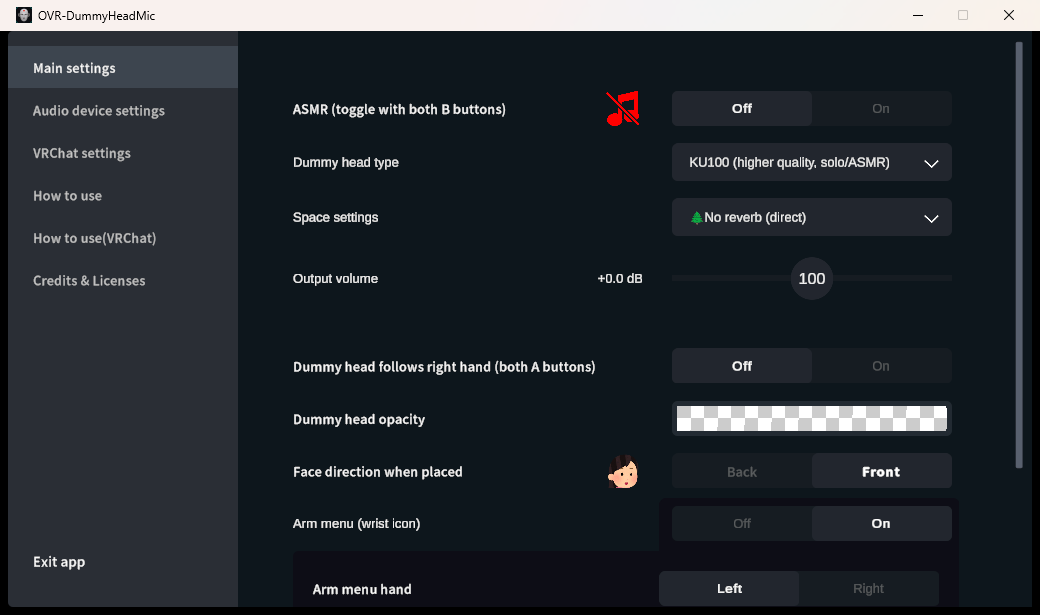
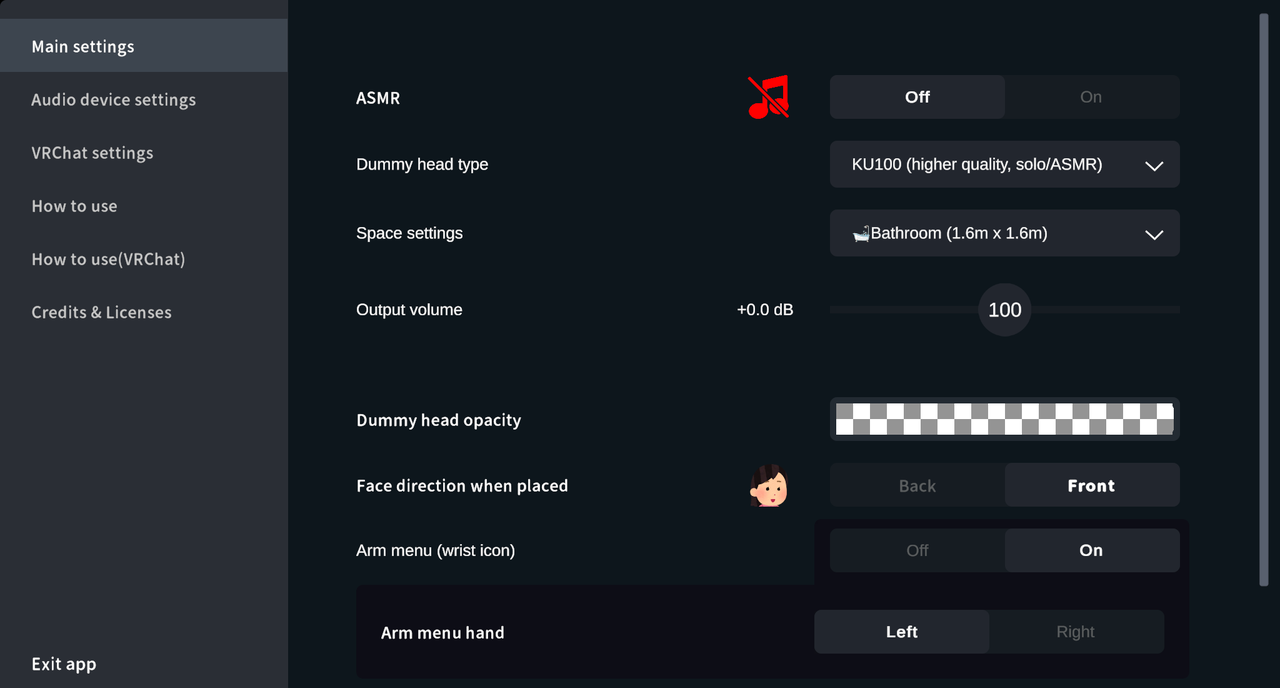
Retake the English Main settings screenshot from the current build

diff --git a/SCREENSHOT_PLAN.md b/SCREENSHOT_PLAN.md
@@ -6,7 +6,7 @@
 | --- | --- | --- | --- |
 | `static/img/screenshots/<locale>/basic-guide.png`（8言語: ja, en, zh-Hans, zh-Hant, ko, ru, es, pt-BR） | `getting-started/first-sound` | 初回設定、OBS、基本操作の全体像 | 2026-11-18 に③④を新操作（グリップで掴む／頭の下のボタン列）へ描き直し。ja・en を作成し、他の6言語は en から文字を置き換えて作成。全言語の文字を目視確認済み。アプリ内（`Assets/Texture/ManualGuides/basic-guide-<locale>.png`）と同じファイル |
 | `static/img/screenshots/<locale>/vrchat-camera-sync.png`（8言語） | `vrchat-camera/calibration` | VRChatカメラ同期の初回手順 | 2026-10 に8言語を用意。2026-11 の操作変更の影響なし（Codex 点検 2026-11-18） |
-| `static/img/screenshots/en/app-window-en.png` | `operation/sound` | 英語 Main settings の実画面 | **要撮り直し**：v1.10（2026-09-23）の画面で、廃止した「ASMR (toggle with both B buttons)」「Dummy head follows right hand (both A buttons)」が写っている。現行ビルドの実アプリで撮り直す |
+| `static/img/screenshots/en/app-window-en.png` | `operation/sound` | 英語 Main settings の実画面 | 2026-11-18 に撮り直し（エディタの Play モードで実際に起動し、デスクトップ窓のカメラを 2048×1152 で描画して 1280×688 に縮小。窓枠は無し）。掴み操作変更（fef5b87）以降の画面 |
 
 ## 図解（コードで描く図）
 
